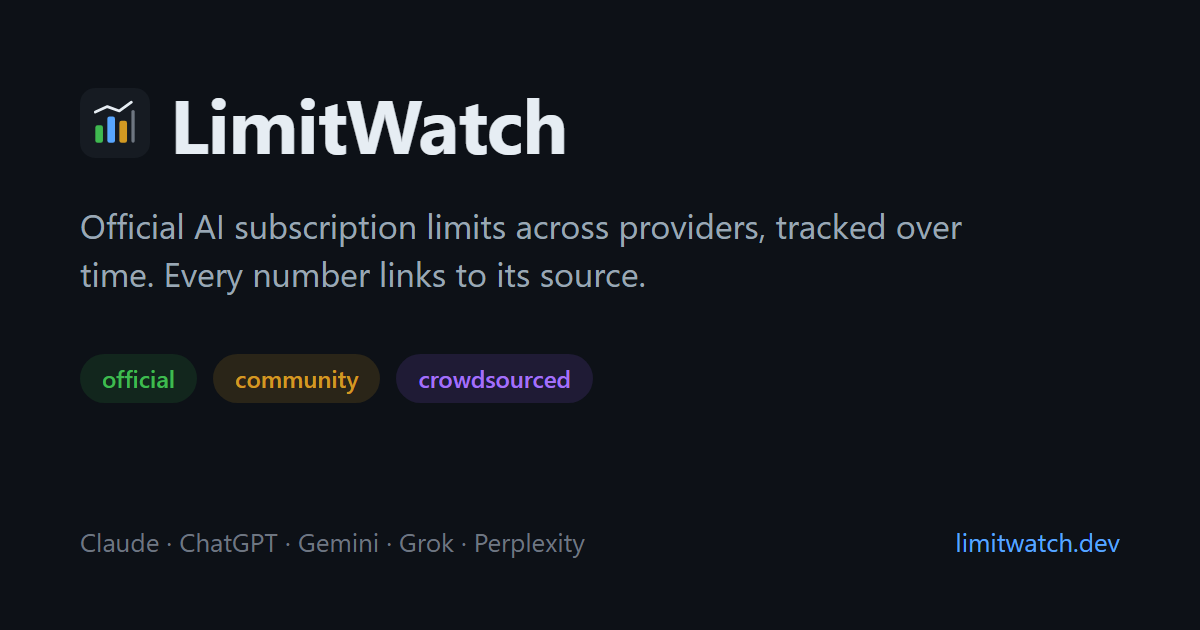
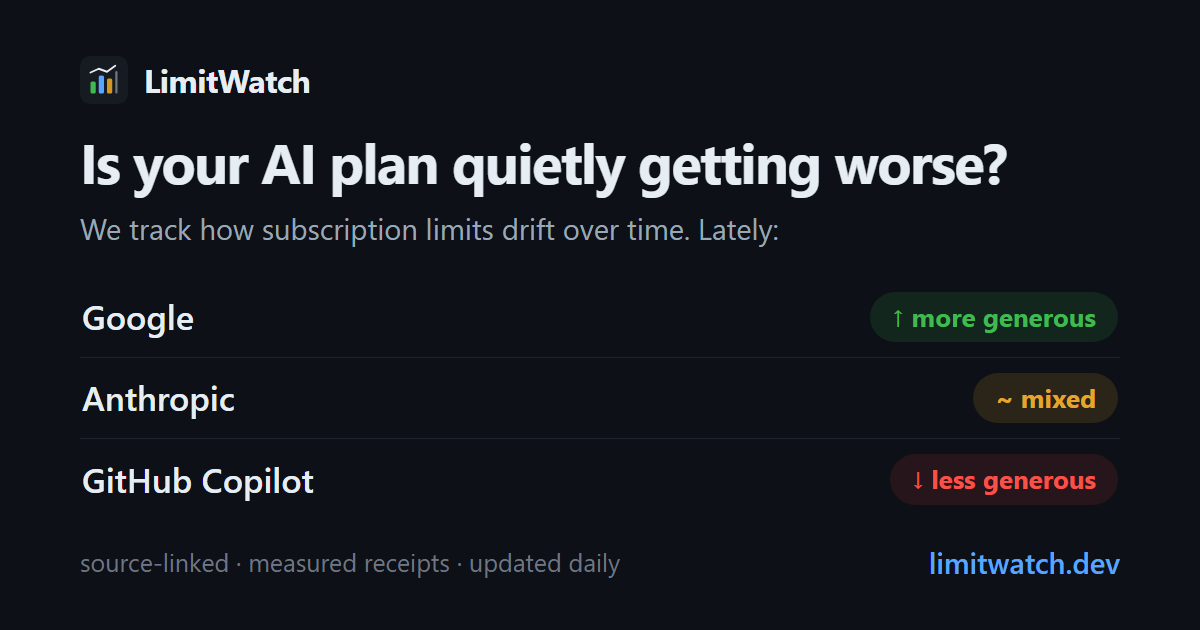
feat: refresh OG/social card — lead with the drift question + leaderboard
Replace the dated 'official limits, tracked over time' card with the actual
hook: 'Is your AI plan quietly getting worse?' over the live generosity
verdicts (Google up, Anthropic mixed, Copilot down). Doubles as the link-preview
card and an attachable promo image.

diff --git a/scripts/og-card.html b/scripts/og-card.html
@@ -5,19 +5,25 @@
   <style>
     * { margin: 0; box-sizing: border-box; }
     body { width: 1200px; height: 630px; background: #0d1117; color: #e6edf3;
-           font: 28px/1.4 system-ui, sans-serif; padding: 70px 80px; position: relative; overflow: hidden; }
-    .brand { display: flex; align-items: center; gap: 20px; }
-    .brand svg { width: 70px; height: 70px; }
-    h1 { font-size: 76px; letter-spacing: -1px; }
-    .tag { color: #9aa7b4; font-size: 34px; margin-top: 26px; max-width: 900px; }
-    .badges { margin-top: 56px; display: flex; gap: 16px; }
-    .b { border-radius: 999px; padding: 8px 22px; font-size: 24px; font-weight: 600; }
-    .official { background: #2ea04326; color: #3fb950; }
-    .community { background: #d2992226; color: #d29922; }
-    .crowd { background: #8957e526; color: #a371f7; }
-    .row { position: absolute; bottom: 70px; left: 80px; right: 80px; display: flex;
-           justify-content: space-between; color: #6e7681; font-size: 26px; }
-    .url { color: #58a6ff; }
+           font: 28px/1.4 system-ui, sans-serif; padding: 56px 80px;
+           display: flex; flex-direction: column; overflow: hidden; }
+    .brand { display: flex; align-items: center; gap: 16px; }
+    .brand svg { width: 48px; height: 48px; }
+    .brand span { font-size: 32px; font-weight: 700; letter-spacing: -.5px; }
+    h1 { font-size: 56px; line-height: 1.07; letter-spacing: -1.5px; margin-top: 28px; }
+    .sub { color: #9aa7b4; font-size: 29px; margin-top: 16px; }
+    .board { margin-top: 28px; }
+    .r { display: flex; align-items: center; justify-content: space-between;
+         padding: 15px 2px; border-bottom: 1px solid #1c2430; }
+    .r:last-child { border-bottom: 0; }
+    .p { font-size: 34px; font-weight: 600; }
+    .v { border-radius: 999px; padding: 7px 22px; font-size: 26px; font-weight: 700; white-space: nowrap; }
+    .up { background: #2ea04326; color: #3fb950; }
+    .mixed { background: #d2992226; color: #e3a72c; }
+    .down { background: #da36331f; color: #f85149; }
+    .foot { margin-top: auto; padding-top: 22px; display: flex;
+            justify-content: space-between; align-items: center; color: #6e7681; font-size: 25px; }
+    .url { color: #58a6ff; font-weight: 600; font-size: 29px; }
   </style>
 </head>
 <body>
@@ -28,16 +34,20 @@
       <rect x="36" y="30" width="7" height="20" rx="2" fill="#d29922"/>
       <rect x="47" y="20" width="3" height="30" rx="1.5" fill="#6e7681"/>
       <path d="M14 22 L25 17 L36 21 L47 13" fill="none" stroke="#e6edf3" stroke-width="2.5" stroke-linecap="round" stroke-linejoin="round"/></svg>
-    <h1>LimitWatch</h1>
+    <span>LimitWatch</span>
   </div>
-  <div class="tag">Official AI subscription limits across providers, tracked over time. Every number links to its source.</div>
-  <div class="badges">
-    <span class="b official">official</span>
-    <span class="b community">community</span>
-    <span class="b crowd">crowdsourced</span>
+
+  <h1>Is your AI plan quietly getting worse?</h1>
+  <div class="sub">We track how subscription limits drift over time. Lately:</div>
+
+  <div class="board">
+    <div class="r"><span class="p">Google</span><span class="v up">&#8593; more generous</span></div>
+    <div class="r"><span class="p">Anthropic</span><span class="v mixed">~ mixed</span></div>
+    <div class="r"><span class="p">GitHub Copilot</span><span class="v down">&#8595; less generous</span></div>
   </div>
-  <div class="row">
-    <span>Claude · ChatGPT · Gemini · Grok · Perplexity</span>
+
+  <div class="foot">
+    <span>source-linked &middot; measured receipts &middot; updated daily</span>
     <span class="url">limitwatch.dev</span>
   </div>
 </body>
